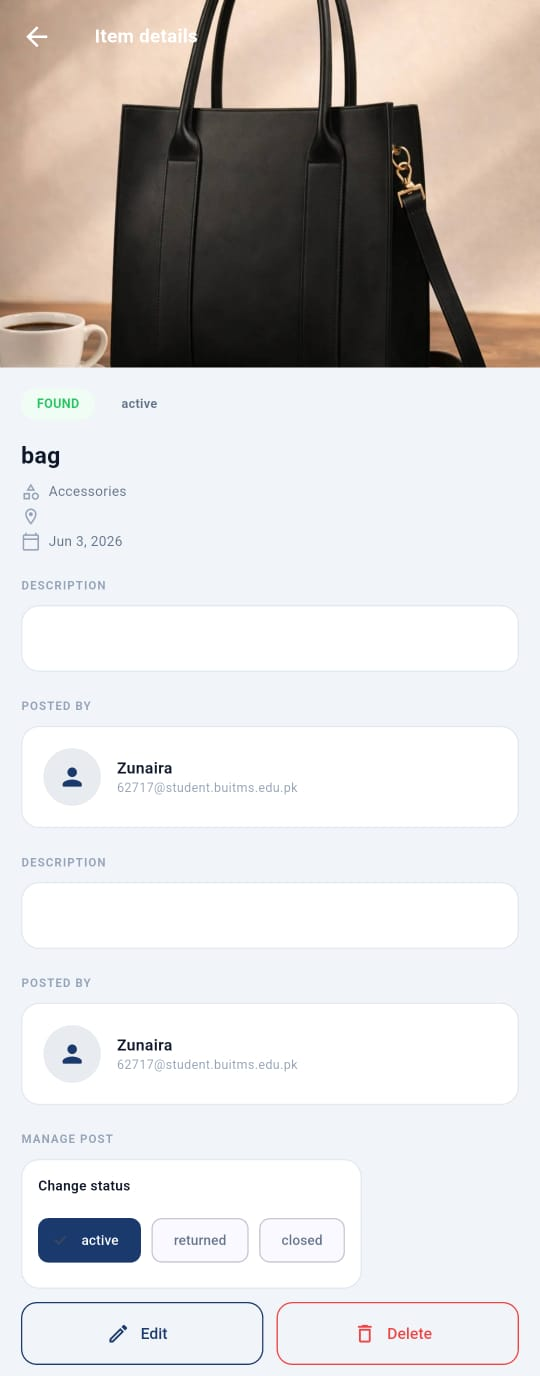
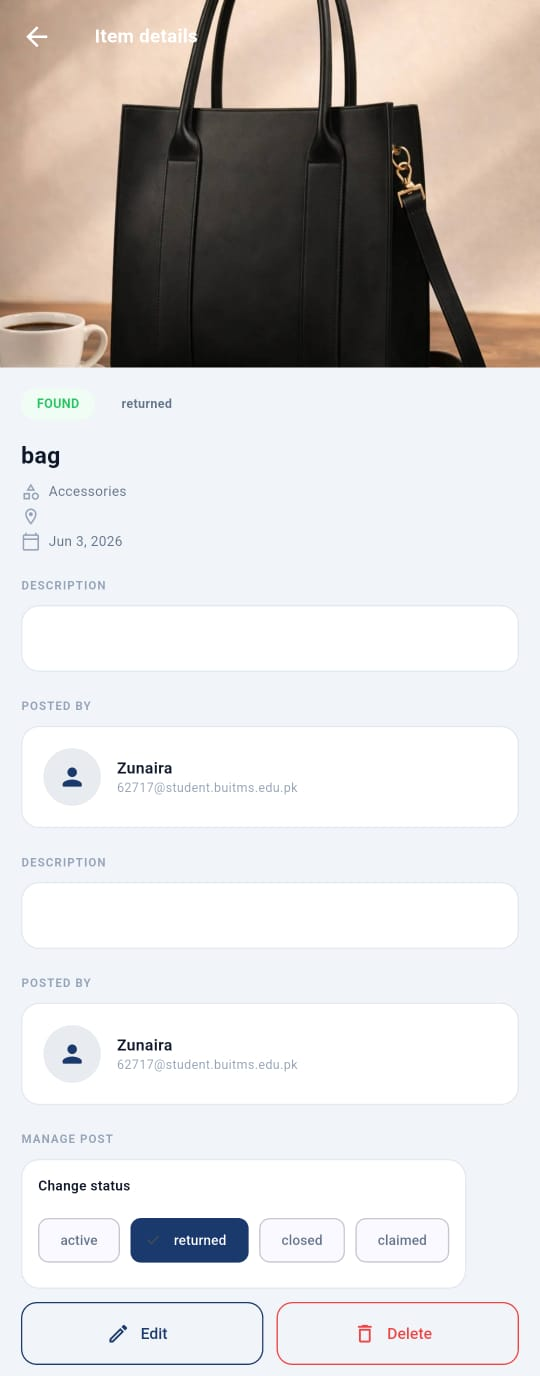
Automatic Fix

diff --git a/lib/screens/phone_login_screen.dart b/lib/screens/phone_login_screen.dart
@@ -95,7 +95,7 @@ class _PhoneLoginScreenState extends State<PhoneLoginScreen> {
       final id = await AuthService.sendPhoneCode(_phone.text.trim());
       setState(() => _verificationId = id);
     } catch (e) {
-      if (mounted)
+      if (mounted) {
         ScaffoldMessenger.of(context).showSnackBar(
           SnackBar(
             content: Text(e.toString()),
@@ -105,6 +105,7 @@ class _PhoneLoginScreenState extends State<PhoneLoginScreen> {
                 borderRadius: BorderRadius.circular(10)),
           ),
         );
+      }
     } finally {
       if (mounted) setState(() => _loading = false);
     }
@@ -117,7 +118,7 @@ class _PhoneLoginScreenState extends State<PhoneLoginScreen> {
           _verificationId!, _code.text.trim());
       if (mounted) Navigator.pop(context);
     } catch (e) {
-      if (mounted)
+      if (mounted) {
         ScaffoldMessenger.of(context).showSnackBar(
           SnackBar(
             content: Text(e.toString()),
@@ -127,6 +128,7 @@ class _PhoneLoginScreenState extends State<PhoneLoginScreen> {
                 borderRadius: BorderRadius.circular(10)),
           ),
         );
+      }
     } finally {
       if (mounted) setState(() => _loading = false);
     }
@@ -176,7 +178,7 @@ class _PhoneLoginScreenState extends State<PhoneLoginScreen> {
                         width: 72,
                         height: 72,
                         decoration: BoxDecoration(
-                          color: Colors.white.withOpacity(0.15),
+                          color: Colors.white.withValues(alpha: 0.15),
                           borderRadius: BorderRadius.circular(20),
                         ),
                         child: const Icon(Icons.phone_android_rounded,
@@ -199,7 +201,7 @@ class _PhoneLoginScreenState extends State<PhoneLoginScreen> {
                         textAlign: TextAlign.center,
                         style: TextStyle(
                           fontSize: 14,
-                          color: Colors.white.withOpacity(0.65),
+                          color: Colors.white.withValues(alpha: 0.65),
                         ),
                       ),
                       const SizedBox(height: 36),
@@ -211,7 +213,7 @@ class _PhoneLoginScreenState extends State<PhoneLoginScreen> {
                           borderRadius: BorderRadius.circular(24),
                           boxShadow: [
                             BoxShadow(
-                              color: Colors.black.withOpacity(0.2),
+                              color: Colors.black.withValues(alpha: 0.2),
                               blurRadius: 30,
                               offset: const Offset(0, 10),
                             ),

diff --git a/lib/screens/item_detail_screen.dart b/lib/screens/item_detail_screen.dart
@@ -138,10 +138,11 @@ class ItemDetailScreen extends StatelessWidget {
       body: FutureBuilder<Item>(
         future: ItemService.fetch(itemId),
         builder: (context, snap) {
-          if (!snap.hasData)
+          if (!snap.hasData) {
             return const Scaffold(
               body: Center(child: CircularProgressIndicator()),
             );
+          }
           final item = snap.data!;
           final isOwner = item.posterId == uid;
           final isLost = item.type == ItemType.lost;
@@ -283,7 +284,7 @@ class ItemDetailScreen extends StatelessWidget {
                           CircleAvatar(
                             radius: 22,
                             backgroundColor:
-                                const Color(0xFF1A3A6E).withOpacity(0.1),
+                                const Color(0xFF1A3A6E).withValues(alpha: 0.1),
                             child: const Icon(Icons.person_rounded,
                                 color: Color(0xFF1A3A6E), size: 22),
                           ),
@@ -413,8 +414,9 @@ class ItemDetailScreen extends StatelessWidget {
                                                 await ItemService.update(
                                                     item.id,
                                                     {'status': s.name});
-                                                if (context.mounted)
+                                                if (context.mounted) {
                                                   Navigator.pop(context);
+                                                }
                                               },
                                             ))
                                         .toList()),
@@ -464,8 +466,9 @@ class ItemDetailScreen extends StatelessWidget {
                               ),
                               onPressed: () async {
                                 await ItemService.delete(item.id);
-                                if (context.mounted)
+                                if (context.mounted) {
                                   Navigator.pop(context);
+                                }
                               },
                             ),
                           ),
@@ -556,7 +559,7 @@ class _ContactBtn extends StatelessWidget {
         decoration: BoxDecoration(
           color: bg,
           borderRadius: BorderRadius.circular(12),
-          border: Border.all(color: color.withOpacity(0.3)),
+          border: Border.all(color: color.withValues(alpha: 0.3)),
         ),
         child: Row(mainAxisSize: MainAxisSize.min, children: [
           Icon(icon, color: color, size: 18),

diff --git a/lib/screens/signup_screen.dart b/lib/screens/signup_screen.dart
@@ -126,7 +126,7 @@ class _SignupScreenState extends State<SignupScreen> {
       );
       if (mounted) Navigator.pop(context);
     } catch (e) {
-      if (mounted)
+      if (mounted) {
         ScaffoldMessenger.of(context).showSnackBar(
           SnackBar(
             content: Text(e.toString()),
@@ -136,6 +136,7 @@ class _SignupScreenState extends State<SignupScreen> {
                 borderRadius: BorderRadius.circular(10)),
           ),
         );
+      }
     } finally {
       if (mounted) setState(() => _loading = false);
     }
@@ -216,7 +217,7 @@ class _SignupScreenState extends State<SignupScreen> {
           'BUITEMS students only',
           style: TextStyle(
             fontSize: 14,
-            color: Colors.white.withOpacity(0.65),
+            color: Colors.white.withValues(alpha: 0.65),
           ),
         ),
       ],
@@ -230,7 +231,7 @@ class _SignupScreenState extends State<SignupScreen> {
         borderRadius: BorderRadius.circular(24),
         boxShadow: [
           BoxShadow(
-            color: Colors.black.withOpacity(0.2),
+            color: Colors.black.withValues(alpha: 0.2),
             blurRadius: 30,
             offset: const Offset(0, 10),
           ),
@@ -261,7 +262,7 @@ class _SignupScreenState extends State<SignupScreen> {
           const SizedBox(height: 14),
           // Department dropdown
           DropdownButtonFormField<String>(
-            value: _department,
+            initialValue: _department,
             decoration: const InputDecoration(
               labelText: 'Department',
               prefixIcon: Icon(Icons.account_balance_outlined, size: 20),
@@ -285,7 +286,7 @@ class _SignupScreenState extends State<SignupScreen> {
           const SizedBox(height: 14),
           // Semester dropdown
           DropdownButtonFormField<String>(
-            value: _semester,
+            initialValue: _semester,
             decoration: const InputDecoration(
               labelText: 'Semester',
               prefixIcon: Icon(Icons.school_outlined, size: 20),

diff --git a/lib/screens/post_item_screen.dart b/lib/screens/post_item_screen.dart
@@ -243,7 +243,7 @@ class _PostItemScreenState extends State<PostItemScreen> {
       }
       if (mounted) Navigator.pop(context);
     } catch (e) {
-      if (mounted)
+      if (mounted) {
         ScaffoldMessenger.of(context).showSnackBar(
           SnackBar(
             content: Text(e.toString()),
@@ -253,6 +253,7 @@ class _PostItemScreenState extends State<PostItemScreen> {
                 borderRadius: BorderRadius.circular(10)),
           ),
         );
+      }
     } finally {
       if (mounted) setState(() => _loading = false);
     }
@@ -306,7 +307,7 @@ class _PostItemScreenState extends State<PostItemScreen> {
           ),
           const SizedBox(height: 16),
 
-          _SectionLabel('Item details'),
+          const _SectionLabel('Item details'),
           const SizedBox(height: 8),
           _FormCard(children: [
             TextField(
@@ -327,7 +328,7 @@ class _PostItemScreenState extends State<PostItemScreen> {
             ),
             const SizedBox(height: 12),
             DropdownButtonFormField<String>(
-              value: _category,
+              initialValue: _category,
               decoration: const InputDecoration(
                   labelText: 'Category',
                   prefixIcon:
@@ -341,7 +342,7 @@ class _PostItemScreenState extends State<PostItemScreen> {
           ]),
           const SizedBox(height: 16),
 
-          _SectionLabel('Location & contact'),
+          const _SectionLabel('Location & contact'),
           const SizedBox(height: 8),
           _FormCard(children: [
             TextField(
@@ -363,7 +364,7 @@ class _PostItemScreenState extends State<PostItemScreen> {
           ]),
           const SizedBox(height: 16),
 
-          _SectionLabel('Photo'),
+          const _SectionLabel('Photo'),
           const SizedBox(height: 8),
           Row(children: [
             Expanded(

diff --git a/lib/screens/profile_screen.dart b/lib/screens/profile_screen.dart
@@ -66,7 +66,7 @@ class ProfileScreen extends StatelessWidget {
                     const SizedBox(height: 32),
                     CircleAvatar(
                       radius: 40,
-                      backgroundColor: Colors.white.withOpacity(0.2),
+                      backgroundColor: Colors.white.withValues(alpha: 0.2),
                       backgroundImage: user.photoURL != null
                           ? NetworkImage(user.photoURL!)
                           : null,
@@ -88,7 +88,7 @@ class ProfileScreen extends StatelessWidget {
                     Text(
                       user.email ?? user.phoneNumber ?? '',
                       style: TextStyle(
-                        color: Colors.white.withOpacity(0.7),
+                        color: Colors.white.withValues(alpha: 0.7),
                         fontSize: 13,
                       ),
                     ),
@@ -139,11 +139,11 @@ class ProfileScreen extends StatelessWidget {
                     ),
                   ),
                   const SizedBox(height: 8),
-                  _InfoCard(children: [
+                  const _InfoCard(children: [
                     _ActionRow(
                       icon: Icons.logout_rounded,
                       label: 'Sign out',
-                      color: const Color(0xFFEF4444),
+                      color: Color(0xFFEF4444),
                       onTap: AuthService.signOut,
                     ),
                   ]),
@@ -234,7 +234,7 @@ class _ActionRow extends StatelessWidget {
                   TextStyle(color: color, fontWeight: FontWeight.w500)),
           const Spacer(),
           Icon(Icons.chevron_right_rounded,
-              color: color.withOpacity(0.5), size: 18),
+              color: color.withValues(alpha: 0.5), size: 18),
         ]),
       ),
     );

diff --git a/lib/screens/browse_screen.dart b/lib/screens/browse_screen.dart
@@ -113,12 +113,12 @@ class _BrowseScreenState extends State<BrowseScreen> {
                   decoration: InputDecoration(
                     hintText: 'Search items...',
                     hintStyle: TextStyle(
-                        color: Colors.white.withOpacity(0.5),
+                        color: Colors.white.withValues(alpha: 0.5),
                         fontSize: 14),
                     prefixIcon: Icon(Icons.search,
-                        color: Colors.white.withOpacity(0.7)),
+                        color: Colors.white.withValues(alpha: 0.7)),
                     filled: true,
-                    fillColor: Colors.white.withOpacity(0.12),
+                    fillColor: Colors.white.withValues(alpha: 0.12),
                     border: OutlineInputBorder(
                       borderRadius: BorderRadius.circular(12),
                       borderSide: BorderSide.none,
@@ -130,7 +130,7 @@ class _BrowseScreenState extends State<BrowseScreen> {
                     focusedBorder: OutlineInputBorder(
                       borderRadius: BorderRadius.circular(12),
                       borderSide: BorderSide(
-                          color: Colors.white.withOpacity(0.4)),
+                          color: Colors.white.withValues(alpha: 0.4)),
                     ),
                     contentPadding: const EdgeInsets.symmetric(
                         horizontal: 16, vertical: 12),

diff --git a/lib/screens/dashboard_screen.dart b/lib/screens/dashboard_screen.dart
@@ -341,7 +341,7 @@ class DashboardScreen extends StatelessWidget {
                   child: Text(
                     'Welcome back 👋',
                     style: TextStyle(
-                      color: Colors.white.withOpacity(0.75),
+                      color: Colors.white.withValues(alpha: 0.75),
                       fontSize: 13,
                     ),
                   ),
@@ -460,7 +460,7 @@ class _StatCard extends StatelessWidget {
       decoration: BoxDecoration(
         color: bgColor,
         borderRadius: BorderRadius.circular(16),
-        border: Border.all(color: color.withOpacity(0.15)),
+        border: Border.all(color: color.withValues(alpha: 0.15)),
       ),
       child: Row(
         children: [
@@ -468,7 +468,7 @@ class _StatCard extends StatelessWidget {
             width: 44,
             height: 44,
             decoration: BoxDecoration(
-              color: color.withOpacity(0.12),
+              color: color.withValues(alpha: 0.12),
               borderRadius: BorderRadius.circular(12),
             ),
             child: Icon(icon, color: color, size: 22),

diff --git a/lib/screens/login_screen.dart b/lib/screens/login_screen.dart
@@ -170,7 +170,7 @@ class _LoginScreenState extends State<LoginScreen> {
           width: 72,
           height: 72,
           decoration: BoxDecoration(
-            color: Colors.white.withOpacity(0.15),
+            color: Colors.white.withValues(alpha: 0.15),
             borderRadius: BorderRadius.circular(20),
           ),
           child: const Icon(
@@ -210,7 +210,7 @@ class _LoginScreenState extends State<LoginScreen> {
         borderRadius: BorderRadius.circular(24),
         boxShadow: [
           BoxShadow(
-            color: Colors.black.withOpacity(0.2),
+            color: Colors.black.withValues(alpha: 0.2),
             blurRadius: 30,
             offset: const Offset(0, 10),
           ),

diff --git a/lib/screens/my_posts_screen.dart b/lib/screens/my_posts_screen.dart
@@ -68,14 +68,14 @@ class MyPostsScreen extends StatelessWidget {
           final items = snap.data ?? [];
 
           if (items.isEmpty) {
-            return Center(
+            return const Center(
               child: Column(
                 mainAxisAlignment: MainAxisAlignment.center,
                 children: [
                   Icon(Icons.post_add_rounded,
                       size: 64, color: Colors.grey),
-                  const SizedBox(height: 12),
-                  const Text(
+                  SizedBox(height: 12),
+                  Text(
                     'You have no posts yet',
                     style: TextStyle(
                       color: Color(0xFF94A3B8),

diff --git a/lib/screens/splash_screen.dart b/lib/screens/splash_screen.dart
@@ -31,7 +31,7 @@ class SplashScreen extends StatelessWidget {
                 width: 80,
                 height: 80,
                 decoration: BoxDecoration(
-                  color: Colors.white.withOpacity(0.15),
+                  color: Colors.white.withValues(alpha: 0.15),
                   borderRadius: BorderRadius.circular(22),
                 ),
                 child: const Icon(

diff --git a/lib/widgets/item_card.dart b/lib/widgets/item_card.dart
@@ -248,7 +248,7 @@ class ItemCard extends StatelessWidget {
             BorderSide(color: Color(0xFFE2E8F0))),
         boxShadow: [
           BoxShadow(
-            color: Colors.black.withOpacity(0.04),
+            color: Colors.black.withValues(alpha: 0.04),
             blurRadius: 8,
             offset: const Offset(0, 2),
           ),
